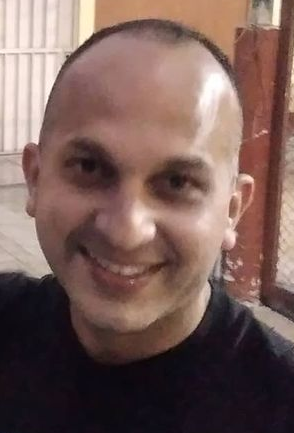
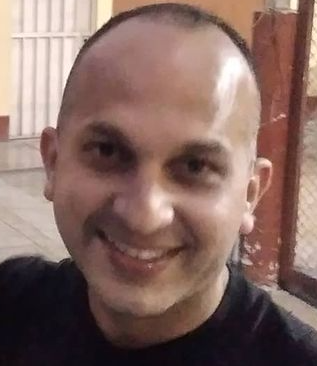
corrigiendo imagen

diff --git a/js/variables.js b/js/variables.js
@@ -42,7 +42,7 @@ var contactosjs = [
     titulo:"Ingeniero Civil",
     descripcion:"Diseño de Planos",
     url:"https://www.linkedin.com/in/percy-correa-a9a919ba/"
-}
+},
 {
     img:"w3images/Juan Correa.PNG",
     alt:"Juan",

diff --git a/template/main.html b/template/main.html
@@ -1,3 +1,4 @@
+
 <!-- Zona de los integrantes del proyecto -->
 <div ng-include="'template/nosotros.html'"></div>
 
